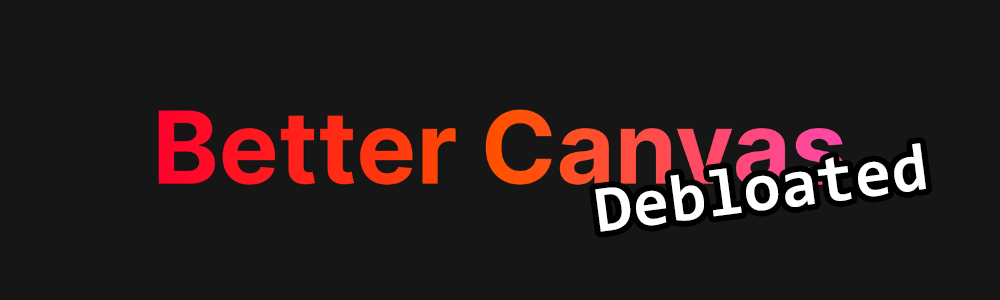
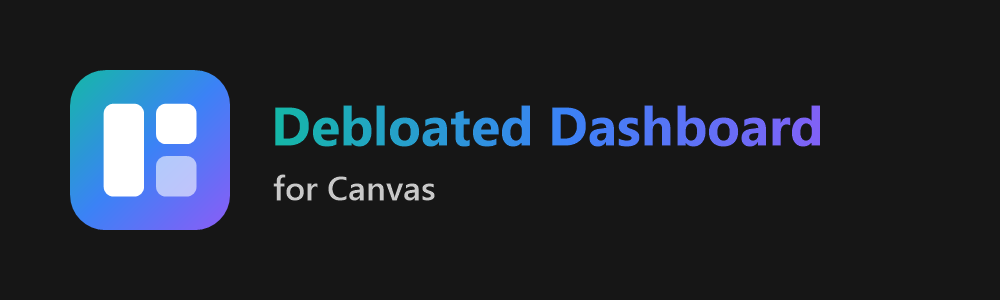
Rebrand as Debloated Dashboard for Canvas 1.0.0
- New name, extension ID, icons, banner and teal/blue/violet accent
- Add privacy policy and store listing text
- Rewrite README with non-affiliation notice and credits

Changed region(s): [[0.062, 0.21, 0.93, 0.78]]

diff --git a/html/options.html b/html/options.html
@@ -2,7 +2,7 @@
 <html lang="en">
 
 <head>
-    <title>Better Canvas Debloated</title>
+    <title>Debloated Dashboard for Canvas</title>
     <link href="../css/options.css" rel="stylesheet">
     <link href="../css/fonts.css" rel="stylesheet">
 
@@ -14,7 +14,7 @@
         <div class="main-left">
             <div class="container">
                 <div class="welcome">
-                    <h1>Welcome to <span class="bettercanvas">Better Canvas!</span></h1>
+                    <h1>Welcome to <span class="bettercanvas">Debloated Dashboard!</span></h1>
                     <div id="refresh-note">
                         <p style="font-weight:600;">Refresh your Canvas page to setup</p>
                         <span id="finger2">&#128072;</span>
@@ -29,7 +29,7 @@
                         </svg>
                         <span>Click on this puzzle icon at the top right</span>
                     </li>
-                    <li class="steps-item"><img src="../icon/icon-48.png" class="icon">Click on Better Canvas</li>
+                    <li class="steps-item"><img src="../icon/icon-48.png" class="icon">Click on Debloated Dashboard for Canvas</li>
                     <li class="steps-item">
                         <svg xmlns="http://www.w3.org/2000/svg" viewBox="0 0 16 16" class="pin-icon icon">
                             <path
@@ -39,7 +39,7 @@
                     </li>
                 </div>
                 <div class="contact-info">
-                    <p style="margin-top: 5px">Have an issue or suggestion? <a target="_blank" style="color: inherit" href="https://github.com/CameronStorer/Better-Canvas-Debloated/issues">Open an issue on GitHub</a>.</p>
+                    <p style="margin-top: 5px">Have an issue or suggestion? <a target="_blank" style="color: inherit" href="https://github.com/CameronStorer/Debloated-Dashboard-for-Canvas/issues">Open an issue on GitHub</a>.</p>
 
                 </div>
             </div>

diff --git a/html/popup.html b/html/popup.html
@@ -2,7 +2,7 @@
 <html lang="en" style="/*background:linear-gradient(115deg, rgb(255, 53, 88), rgb(255, 131, 73), rgb(255, 103, 187))*/">
 
 <head>
-    <title>Better Canvas Debloated</title>
+    <title>Debloated Dashboard for Canvas</title>
     <link href="../css/popup.css" rel="stylesheet">
 
     <link href="../css/fonts.css" rel="stylesheet">
@@ -17,7 +17,7 @@
     <div class="main">
         <div class="header">
             <img id="bclogo" src="../icon/icon-128.png">
-            <h1 data-i18n="better_canvas">Better Canvas</h1>
+            <h1 data-i18n="better_canvas">Debloated Dashboard</h1>
         </div>
             <div class="more-options-container">
                 <button id="customize-dark-btn" class="big-button tab-btn">
@@ -726,7 +726,7 @@
             </div>
             <button class="big-button back-btn" data-i18n="back">Back</button>
         </div>
-        <p class="option-container">Found a bug or have feedback? <a target="_blank" style="color: inherit" href="https://github.com/CameronStorer/Better-Canvas-Debloated/issues">Open an issue on GitHub</a>.</p>
+        <p class="option-container">Found a bug or have feedback? <a target="_blank" style="color: inherit" href="https://github.com/CameronStorer/Debloated-Dashboard-for-Canvas/issues">Open an issue on GitHub</a>.</p>
         <p id="dev-alert"></p>
         <div class="option-container">
             <h3 class="header-small">Storage reset</h3>

diff --git a/css/popup.css b/css/popup.css
@@ -128,7 +128,7 @@ input[type="checkbox"] { appearance: none; background: var(--inputbg); margin: 0
 input[type="checkbox"]::before { content: ""; width: 10px; height: 10px; transform: scale(0); box-shadow: inset 1em 1em #323232; transform-origin: center; clip-path: polygon(14% 44%, 0 65%, 50% 100%, 100% 16%, 80% 0%, 43% 62%);}
 input[type="checkbox"]:checked::before {transform: scale(1);}
 input[type="checkbox"]:checked {background: #8dd28d;}
-#gradientbg {height: 550px;width: 150%;position: absolute;z-index: -1;opacity: .4;left: -25%; top: 0px;background: radial-gradient(at 50% 0%, #ff8349 0px, transparent 50%), radial-gradient(at 90% 0%, #ff67bb 0px, transparent 50%), radial-gradient(at 10% 0%, #ff3558 0px, transparent 50%);}
+#gradientbg {height: 550px;width: 150%;position: absolute;z-index: -1;opacity: .4;left: -25%; top: 0px;background: radial-gradient(at 50% 0%, #3b82f6 0px, transparent 50%), radial-gradient(at 90% 0%, #8b5cf6 0px, transparent 50%), radial-gradient(at 10% 0%, #14b8a6 0px, transparent 50%);}
 #dark-mode-fix-urls { display: flex; gap: 5px;flex-wrap: wrap;}
 .fixed-url {display: flex; gap:10px; align-items: center;flex: 0;padding: 7px 14px;}
 .fixed-url button {background: #1e1e1e;padding: 3px 6px;border-radius:4px;color: #fff;border:none;font-size:12px}

diff --git a/js/content.js b/js/content.js
@@ -245,7 +245,7 @@ function startExtension() {
 
     chrome.storage.onChanged.addListener(applyOptionsChanges);
 
-    console.log("Better Canvas - running");
+    console.log("Debloated Dashboard - running");
 }
 
 // hide Canvas's "Switch to new dashboard view" opt-in button
@@ -2067,15 +2067,15 @@ function setupCustomURL() {
         if (res.length) {
             getCards(res).then(() => {
                 setTimeout(() => {
-                    console.log("Better Canvas - setting custom domain to " + domain);
+                    console.log("Debloated Dashboard - setting custom domain to " + domain);
                     chrome.storage.sync.set({ custom_domain: [domain] }).then(location.reload());
                 }, 100);
             });
         } else {
-            console.log("Better Canvas - this url doesn't seem to be a canvas url (1)");
+            console.log("Debloated Dashboard - this url doesn't seem to be a canvas url (1)");
         }
     }).catch(err => {
-        console.log("Better Canvas - this url doesn't seem to be a canvas url (2)");
+        console.log("Debloated Dashboard - this url doesn't seem to be a canvas url (2)");
     });
 }
 

diff --git a/css/options.css b/css/options.css
@@ -11,7 +11,7 @@ h1 {font-size: 50px;line-height:52px;}
 h2 {font-size: 20px}
 .steps {margin-top: 40px; margin-bottom: 20px;background:#101010;padding:24px;border-radius: 14px;display: inline-block;}
 .menu-frame {border: none; height: 150vh;flex: 1;max-width: 514px;max-height:700px;overflow:scroll;border:1px solid #323232;border-radius:8px;}
-.bettercanvas {display:inline-block;background:-webkit-linear-gradient(0deg, #ff002e, #ff5200, #ff47ad);-webkit-background-clip: text;-webkit-text-fill-color: transparent;}
+.bettercanvas {display:inline-block;background:-webkit-linear-gradient(0deg, #14b8a6, #3b82f6, #8b5cf6);-webkit-background-clip: text;-webkit-text-fill-color: transparent;}
 .icon  {height: 22px; width: 22px;margin-right: 10px;}
 .pin-icon {fill: #727272}
 .puzzle-icon {fill: #fff;}

diff --git a/js/popup.js b/js/popup.js
@@ -794,7 +794,7 @@ function displayAdvancedCards() {
                 };
             });
         } else {
-            document.querySelector(".advanced-cards").innerHTML = `<div class="option-container"><h3>Couldn't find your cards!<br/>You may need to refresh your Canvas page and/or this menu page.<br/><br/>If you're still having issues, open an issue at github.com/CameronStorer/Better-Canvas-Debloated</h3></div>`;
+            document.querySelector(".advanced-cards").innerHTML = `<div class="option-container"><h3>Couldn't find your cards!<br/>You may need to refresh your Canvas page and/or this menu page.<br/><br/>If you're still having issues, open an issue at github.com/CameronStorer/Debloated-Dashboard-for-Canvas</h3></div>`;
         }
     });
 }

diff --git a/js/background.js b/js/background.js
@@ -90,7 +90,7 @@ chrome.runtime.onInstalled.addListener(function () {
         }
     };
 
-    const updateMsg = "Better Canvas Debloated was just updated!";
+    const updateMsg = "Debloated Dashboard for Canvas was just updated!";
 
     chrome.storage.local.get(null, local => {
         chrome.storage.sync.get(null, async sync => {

diff --git a/README.md b/README.md
@@ -1,33 +1,34 @@
-![Better Canvas Debloated](/icon/icon-wide.png)
+![Debloated Dashboard for Canvas](/icon/icon-wide.png)
 
-# Better Canvas Debloated
+# Debloated Dashboard for Canvas
 
-A debloated, privacy-friendly fork of [Better Canvas](https://github.com/UseBetterCanvas/bettercanvas) (originally by [ksucpea](https://github.com/ksucpea)), based on **version 5.12.6**, the last release under the MIT License.
+A lightweight, private set of tweaks for Canvas: dark mode, a better to-do list, a GPA calculator and more. No tracking, no accounts, no bloat.
 
-## Purpose
+## Features
 
-Newer Better Canvas releases added a lot of bloat. This fork keeps the features people actually use and removes the rest, along with everything that talks to a third-party server.
+- Fully customizable dark mode, with presets, a color editor and automatic scheduling
+- A better to-do list on the dashboard
+- Assignments due shown on each course card
+- Grades shown on dashboard cards
+- GPA calculator (college and high school, weighted and cumulative)
+- Dashboard notes
+- Custom dashboard card images, colors and gradients
+- Custom fonts
+- Condensed cards and full-width layout
+- Optional browser-wide assignment reminders
+- Save, export and import your own themes
+- Hides Canvas's "Switch to new dashboard view" prompt
 
-**Kept:** dark mode (with presets, scheduling and a full editor), the better to-do list, the GPA calculator, dashboard grades, dashboard notes, card customization and colors, custom fonts, assignment reminders, and saving, exporting and importing your own themes.
+## Privacy
 
-**Removed / changed:**
-
-- **Community themes are gone**: the online theme browser, likes, theme submissions and all the built-in user-made themes. Those themes hotlinked images from Tumblr, Pinterest, Blogspot and other sites.
-- **No anonymous server ID.** The extension no longer registers an ID with the Better Canvas theme server, and it deletes any old ID left over from the original extension.
-- **No uninstall tracking.** Uninstalling no longer opens a page on the developer's website.
-- **No probing every website.** The original extension sent a request to `/api/v1/courses` on *every* site you visited until it found your Canvas domain. This fork only checks pages that actually look like Canvas.
-- **No Google Fonts in the menu.** The menu font is bundled locally. Google Fonts is only contacted if you choose a custom Canvas font yourself.
-- **Hides Canvas's "Switch to new dashboard view" button**, so you stay on the classic dashboard.
-- **Works in Firefox and Chrome** from the same folder.
-
-After these changes, the only network requests the extension makes go to your own school's Canvas site. The one exception is the Google Fonts request if you pick a custom font.
+The extension only talks to **your own school's Canvas site**. There are no analytics, tracking, ads, remote code or accounts, and your Canvas data never leaves your browser. The only exception is Google Fonts, which is contacted only if you choose a custom Canvas font. See the full [privacy policy](PRIVACY.md).
 
 ## Installation
 
 Download the code with **Code → Download ZIP** above and unzip it, or clone it:
 
 ```bash
-git clone https://github.com/CameronStorer/Better-Canvas-Debloated.git
+git clone https://github.com/CameronStorer/Debloated-Dashboard-for-Canvas.git
 ```
 
 ### Chrome / Edge / Brave / Opera
@@ -45,7 +46,7 @@ git clone https://github.com/CameronStorer/Better-Canvas-Debloated.git
 
 **Permanent:** standard Firefox only keeps extensions that Mozilla has signed. Choose one of these:
 
-- **Self-sign (free, works in normal Firefox):** create a free account at the [Firefox Add-on Developer Hub](https://addons.mozilla.org/developers/) and submit the zipped folder as **"On your own"** (unlisted). It isn't published publicly. Install the signed `.xpi` you get back by dragging it into Firefox.
+- **Self-sign (free, works in normal Firefox):** create a free account at the [Firefox Add-on Developer Hub](https://addons.mozilla.org/developers/) and submit the zipped folder as **"On your own"** (unlisted). Install the signed `.xpi` you get back by dragging it into Firefox.
 - **Firefox Developer Edition, Nightly or ESR:** set `xpinstall.signatures.required` to `false` in `about:config`. Zip the *contents* of the folder, so `manifest.json` is at the top level of the zip. Then go to `about:addons` → ⚙ → **Install Add-on From File…** and pick the zip.
 
 ## Usage
@@ -57,10 +58,12 @@ git clone https://github.com/CameronStorer/Better-Canvas-Debloated.git
 
 ## Issues
 
-Found a bug? [Open an issue](https://github.com/CameronStorer/Better-Canvas-Debloated/issues). Please don't contact the original Better Canvas developers about this fork.
+Found a bug? [Open an issue](https://github.com/CameronStorer/Debloated-Dashboard-for-Canvas/issues).
 
 ## Credits & License
 
-Better Canvas was created by [ksucpea](https://github.com/ksucpea), with contributions from [fudgeu](https://github.com/fudgeu), [Tibo Geeraerts](https://github.com/tibogeeraerts), [Jacob Mungle](https://github.com/Jelgnum), [FireIsGood](https://github.com/FireIsGood) and others. This fork isn't affiliated with or endorsed by them, or by Instructure (the makers of Canvas).
+Debloated Dashboard for Canvas is based on [Better Canvas](https://github.com/UseBetterCanvas/bettercanvas) 5.12.6 by [ksucpea](https://github.com/ksucpea), with contributions from [fudgeu](https://github.com/fudgeu), [Tibo Geeraerts](https://github.com/tibogeeraerts), [Jacob Mungle](https://github.com/Jelgnum), [FireIsGood](https://github.com/FireIsGood) and others. Version 5.12.6 was released under the [MIT License](LICENSE). Later upstream releases use a different license, and none of that code is included here.
 
-This fork is based on Better Canvas 5.12.6, which was released under the [MIT License](LICENSE). Upstream changed its license for later releases; none of that later code is included here. The bundled Wix Madefor Text font is under the [SIL Open Font License](fonts/OFL.txt).
+Compared to Better Canvas 5.12.6, this project removes the community themes (online browser, likes, submissions, server ID and the built-in themes that hotlinked third-party images). It also removes uninstall tracking and the Canvas-domain probing of every site you visited, and it bundles the menu font locally instead of loading it from Google Fonts.
+
+This project is not affiliated with, or endorsed by, the Better Canvas developers or Instructure. Canvas is a trademark of Instructure, Inc. The bundled Wix Madefor Text font is under the [SIL Open Font License](fonts/OFL.txt).

diff --git a/STORE_LISTING.md b/STORE_LISTING.md
@@ -1,0 +1,60 @@
+# Store listing text
+
+Copy and paste these into the Firefox Add-ons / Chrome Web Store / Edge Add-ons forms.
+
+## Name
+
+Debloated Dashboard for Canvas
+
+## Summary (short description, max 132 characters)
+
+A lightweight, private set of tweaks for Canvas: dark mode, better to-do list, GPA calculator and more. No tracking.
+
+## Description
+
+Debloated Dashboard for Canvas makes Canvas nicer to use, without bloat or tracking.
+
+**Features**
+- Fully customizable dark mode, with presets, a color editor and automatic scheduling
+- A better to-do list on the dashboard
+- Assignments due shown on each course card
+- Grades shown on dashboard cards
+- GPA calculator (college and high school, weighted and cumulative)
+- Dashboard notes
+- Custom dashboard card images, colors and gradients
+- Custom fonts
+- Condensed cards and full-width layout
+- Optional assignment reminders
+- Save, export and import your own themes
+- Hides the "Switch to new dashboard view" prompt
+
+**Private by design**
+- No analytics, tracking, ads or accounts
+- Your Canvas data never leaves your browser
+- Only talks to your own school's Canvas site
+
+Open source under the MIT License: https://github.com/CameronStorer/Debloated-Dashboard-for-Canvas
+
+_Based on Better Canvas 5.12.6 (MIT License) by ksucpea and contributors. Not affiliated with, or endorsed by, the Better Canvas developers or Instructure. Canvas is a trademark of Instructure, Inc._
+
+## Category
+
+- Firefox: Other / Productivity
+- Chrome: Productivity (Education is also fine)
+
+## Privacy
+
+- Privacy policy URL: https://github.com/CameronStorer/Debloated-Dashboard-for-Canvas/blob/main/PRIVACY.md
+- Firefox data collection: **none**. This is already declared in `manifest.json`.
+- Chrome "Privacy practices" tab:
+  - **Single purpose:** "Customizes the Canvas LMS interface and adds study tools such as a to-do list, dark mode and a GPA calculator."
+  - **`storage` justification:** "Saves the user's settings and customizations."
+  - **Host permission justification:** "Canvas is hosted on a different domain for each school, so the extension must be able to run on the user's Canvas site. Optional reminders can also be shown on other sites if the user enables them."
+  - **Remote code:** No.
+  - **Data usage:** tick **"Personally identifiable information"** and **"Website content"** only if the form asks about data the extension *handles*. Then certify that it is **not** sold, **not** used for unrelated purposes and **not** transferred to anyone. Grades and assignments are read from Canvas but stay on the device.
+
+## Images
+
+- Icon: `icon/icon-128.png` (Chrome needs 128×128; `icon/icon-512.png` is available for larger needs)
+- Banner / promo: `icon/icon-wide.png`
+- Screenshots: take 1–5 of the popup menu and your dashboard (Chrome: 1280×800 or 640×400)

diff --git a/PRIVACY.md b/PRIVACY.md
@@ -1,0 +1,34 @@
+# Privacy Policy: Debloated Dashboard for Canvas
+
+_Last updated: October 17, 2026_
+
+Debloated Dashboard for Canvas ("the extension") does not collect, sell, share or send your personal data to the developer or any third party.
+
+## What the extension accesses
+
+To provide its features, the extension reads information from **your own school's Canvas site** while you're logged in, using Canvas's own API. This includes your courses, assignments, to-do items, announcements and grades. It may also save changes back to Canvas when you ask it to, such as marking a to-do item complete or changing a course color.
+
+This information is used only inside your browser to display features such as the to-do list, dashboard grades, GPA calculator and reminders. It is never sent anywhere else.
+
+## What the extension stores
+
+Your settings (dark mode colors, card customizations, saved themes, notes and reminders) are stored with your browser's extension storage (`storage.sync` / `storage.local`). If browser sync is turned on, your browser may sync these settings between your own devices through your browser account. The developer has no access to them.
+
+## Network requests
+
+The extension only makes network requests to:
+
+- **Your school's Canvas domain**, to read and update your Canvas data as described above.
+- **Google Fonts** (`fonts.googleapis.com`), **only if you choose a custom font** for Canvas in the settings.
+- **Image URLs you enter yourself** for custom dashboard card images.
+
+There are no analytics, tracking, ads, remote code or user accounts.
+
+## Permissions
+
+- `storage`: saves your settings.
+- Access to websites: the extension needs to run on your Canvas site, which can be on any domain depending on your school. If you turn on the optional browser-wide assignment reminders (off by default), it also shows reminder pop-ups on other sites. With reminders off, it does nothing on sites that aren't Canvas, and it never reads or sends their content.
+
+## Contact
+
+Questions or concerns: [open an issue on GitHub](https://github.com/CameronStorer/Debloated-Dashboard-for-Canvas/issues).
